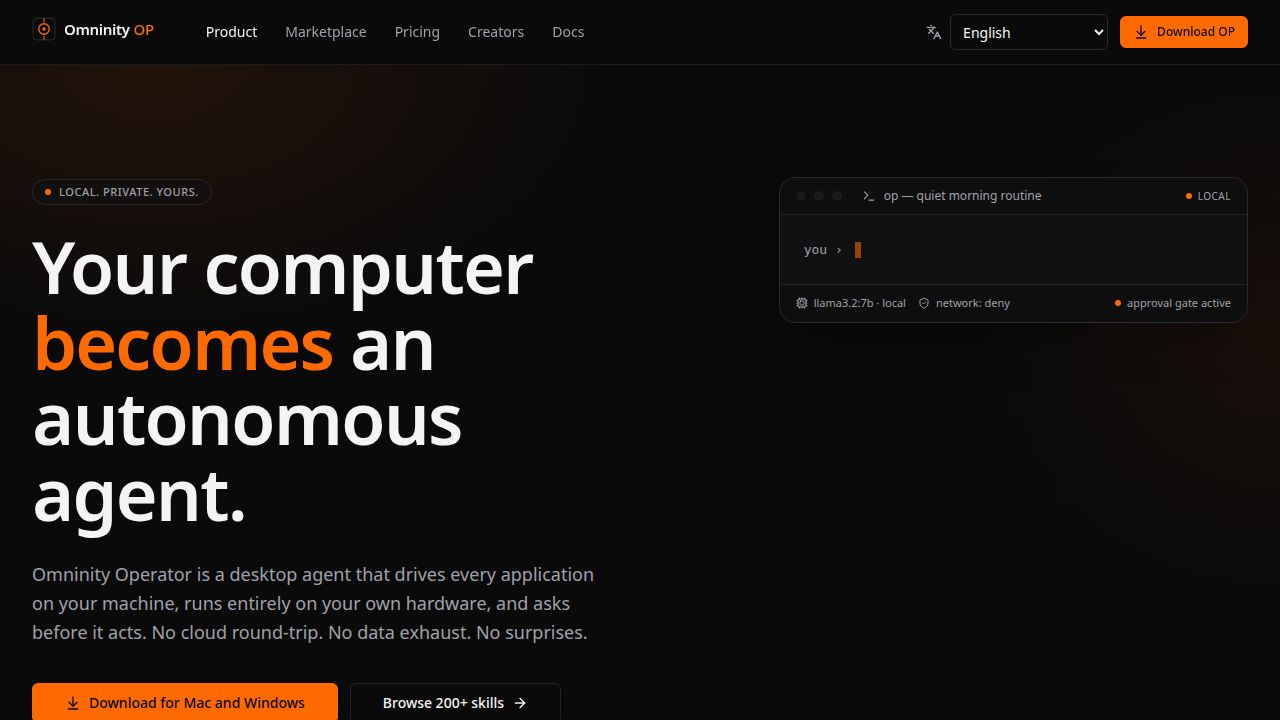
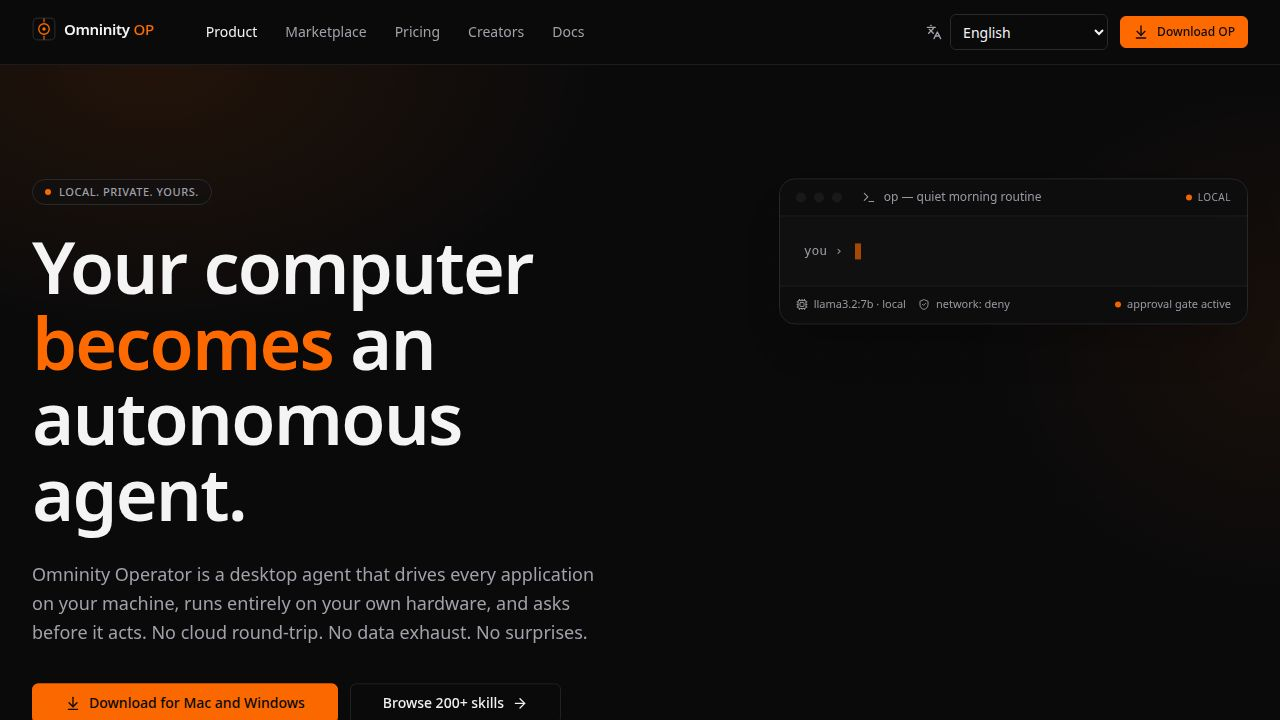
fix: Vite dev proxy + font file serving for local development
- Add server.proxy in vite.config.ts to forward all /api/* requests
  to the API server at http://127.0.0.1:8080 — fixes 403s on login/auth
- Add node_modules to fs.allow so @user/inter font files
  serve correctly — fixes 403 font errors flooding the dev console

Login page is now accessible at /login; operator routes (/chat, /agents,
/settings etc.) gate behind session auth as intended.

diff --git a/artifacts/omninity-website/vite.config.ts b/artifacts/omninity-website/vite.config.ts
@@ -63,11 +63,18 @@ export default defineConfig({
     strictPort: true,
     host: "0.0.0.0",
     allowedHosts: true,
+    proxy: {
+      "/api": {
+        target: "http://127.0.0.1:8080",
+        changeOrigin: false,
+      },
+    },
     fs: {
       strict: true,
       allow: [
         path.resolve(import.meta.dirname),
         path.resolve(import.meta.dirname, "..", "..", "lib"),
+        path.resolve(import.meta.dirname, "..", "..", "node_modules"),
       ],
     },
   },